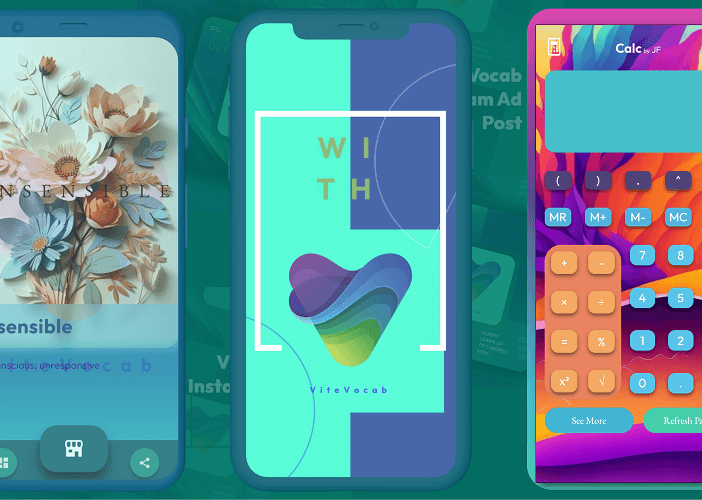
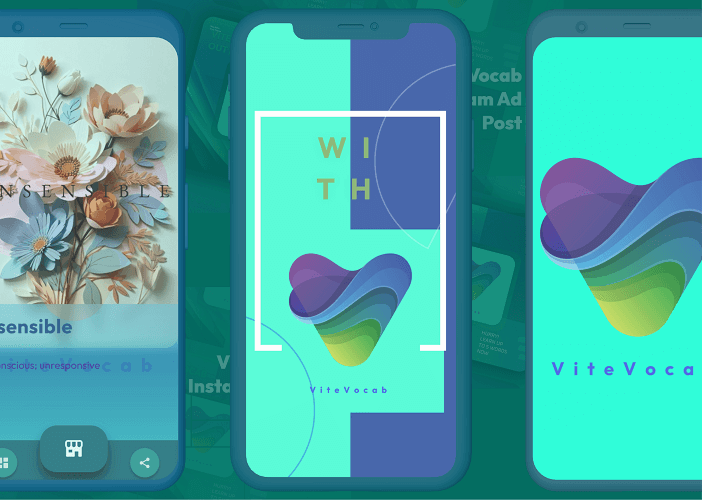
Updated Project ViteVocab

Changed region(s): [[0.7479, 0.0, 1.0, 0.99]]

diff --git a/main.js b/main.js
@@ -839,7 +839,7 @@
             {
                 id: 2,
                 title: "Project Portfolio",
-                tags: ["#webdev", "#mysite"]
+                tags: ["#webdev", "#personal"]
             },
             {
                 id: 3,
@@ -848,7 +848,7 @@
             },
             {
                 id: 4,
-                title: "Project VocabBoost",
+                title: "Project ViteVocab",
                 tags: ["#2023", "#vocabulary", "#learn"]
             },
             {
